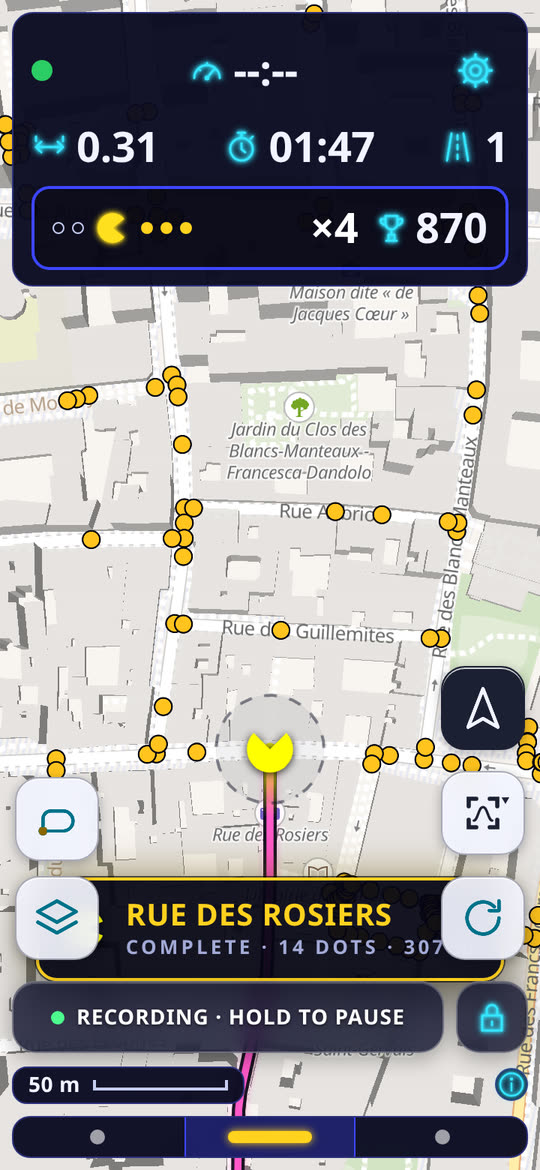
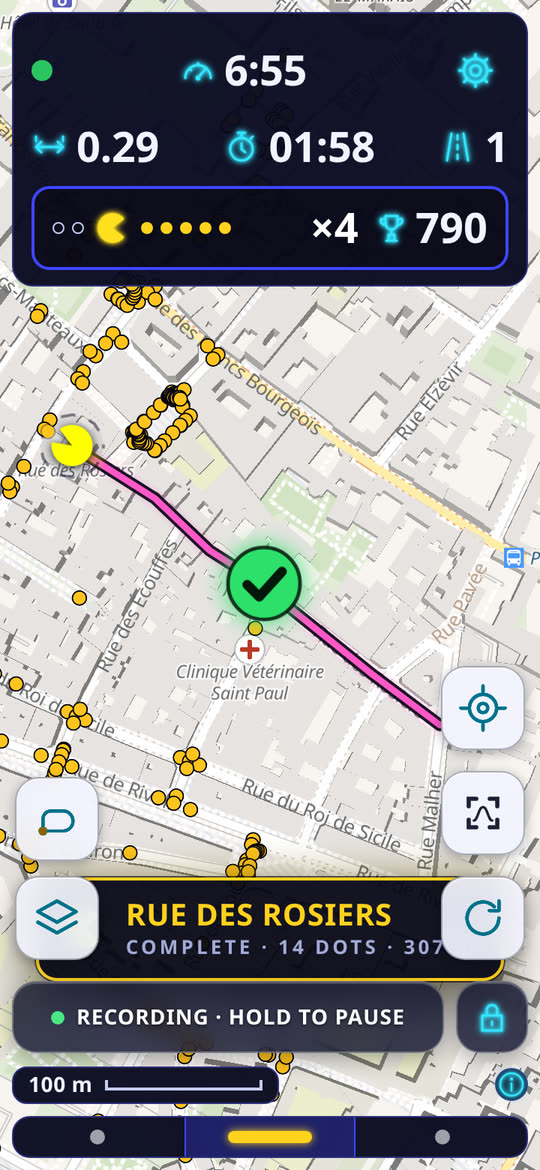
docs: street complete screenshot shows finished street with check
Claude-Session: https://claude.ai/code/session_013aQ1jM6wyBm5RVALBLaQ91

diff --git a/README.md b/README.md
@@ -30,9 +30,9 @@ Dots on the trail disappear and the score counts up. Eating dots in a row raises
 
 ## Street complete
 
-<img src="images/street-complete.jpg" width="260" align="right" alt="A banner reading Rue des Rosiers complete, 14 dots, above the live numbers">
+<img src="images/street-complete.jpg" width="260" align="right" alt="The map zoomed to Rue des Rosiers with a green check on the street and a banner reading complete">
 
-The last dot of a street shows its name, the dots and the metres.
+A finished street, zoomed and checked.
 
 <br clear="right">
 
